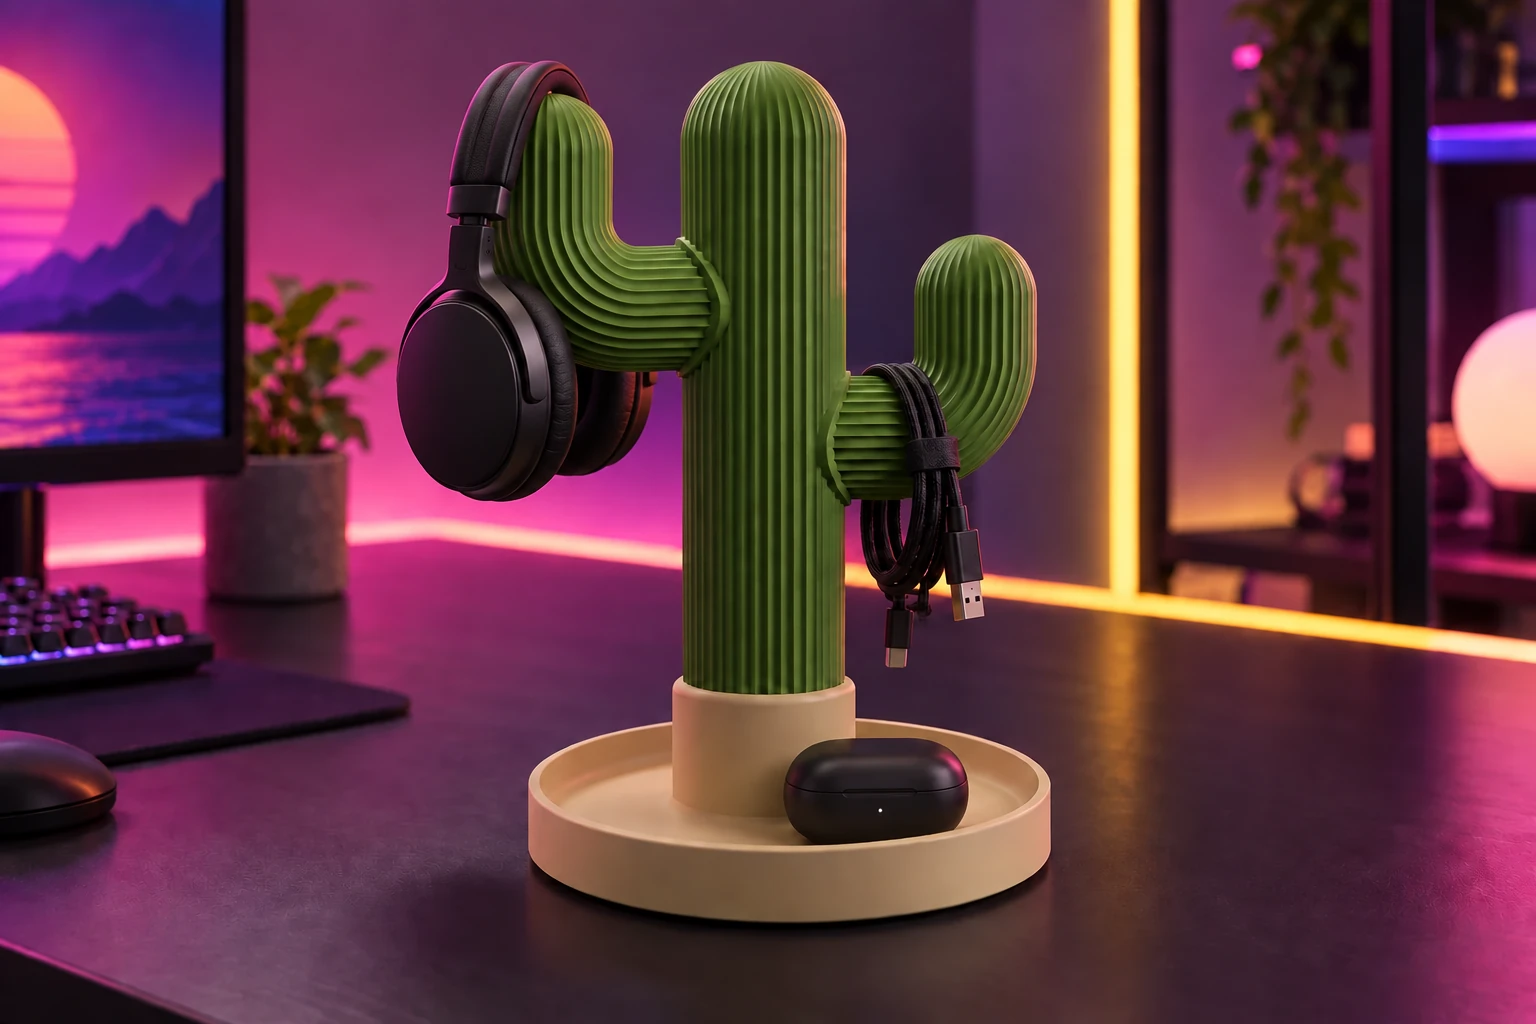
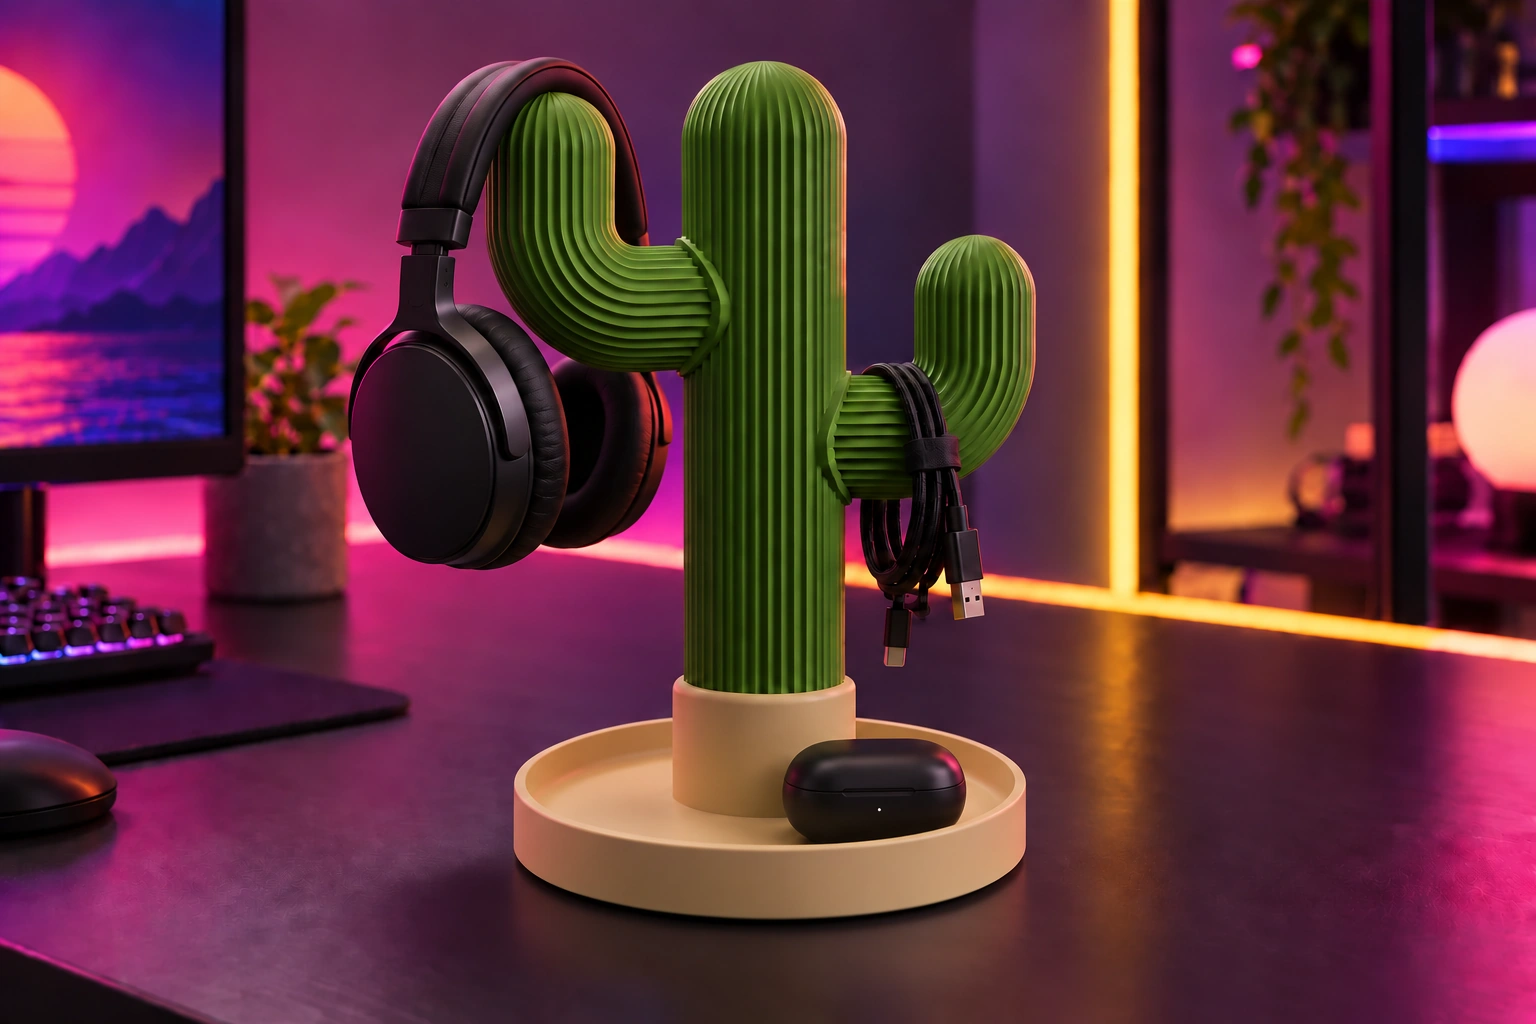
Publish Point3D Print static design and 3D configurator demo

diff --git a/mk/models/cactus-organizer/index.html b/mk/models/cactus-organizer/index.html
@@ -71,9 +71,9 @@
 <section class="usage-gallery section" aria-labelledby="usage-title">
 <div class="section-heading"><div><p class="eyebrow">Еден кактус. Многу намени.</p><h2 id="usage-title">Сè на свое место.</h2></div></div>
 <div class="usage-grid">
-<figure><img src="/point3d-print-demo/static/img/cactus/headphones.webp?v=3" width="1536" height="1024" loading="lazy" alt="Големи слушалки свртени странично, со лентата врз врвот на рачето на кактусот"><figcaption>Слушалки и кабли</figcaption></figure>
+<figure><img src="/point3d-print-demo/static/img/cactus/headphones.webp?v=4" width="1536" height="1024" loading="lazy" alt="Големи слушалки со лентата потпрена врз рачето на кактусот, кабел на другото раче и кутија за слушалки во центрираната база"><figcaption>Слушалки и кабли</figcaption></figure>
 <figure><img src="/point3d-print-demo/static/img/cactus/jewelry.webp" width="1536" height="1024" loading="lazy" alt="Ѓердан и часовник на рацете на кактусот и прстени во базата"><figcaption>Накит и часовник</figcaption></figure>
-<figure><img src="/point3d-print-demo/static/img/cactus/essentials.webp?v=3" width="1536" height="1024" loading="lazy" alt="Бели жичени слушалки за во уво, со кабелот префрлен преку врвот на рачето на кактусот"><figcaption>Слушалки за во уво</figcaption></figure>
+<figure><img src="/point3d-print-demo/static/img/cactus/essentials.webp?v=4" width="1536" height="1024" loading="lazy" alt="Клучеви и паричник во базата на кактусот, со бел USB кабел на рачето"><figcaption>Клучеви и секојдневни додатоци</figcaption></figure>
 </div><p class="muted tiny">Генерирани визуелизации на употреба според 3Д моделот. Додатоците служат како пример.</p>
 </section>
 

diff --git a/en/models/cactus-organizer/index.html b/en/models/cactus-organizer/index.html
@@ -71,9 +71,9 @@
 <section class="usage-gallery section" aria-labelledby="usage-title">
 <div class="section-heading"><div><p class="eyebrow">One cactus. Many uses.</p><h2 id="usage-title">Everything in its place.</h2></div></div>
 <div class="usage-grid">
-<figure><img src="/point3d-print-demo/static/img/cactus/headphones.webp?v=3" width="1536" height="1024" loading="lazy" alt="Over-ear headphones turned sideways, with their headband resting on the cactus arm tip"><figcaption>Headphones and cables</figcaption></figure>
+<figure><img src="/point3d-print-demo/static/img/cactus/headphones.webp?v=4" width="1536" height="1024" loading="lazy" alt="Over-ear headphones supported by the cactus arm, a cable on the other arm and an earbuds case in the centered tray"><figcaption>Headphones and cables</figcaption></figure>
 <figure><img src="/point3d-print-demo/static/img/cactus/jewelry.webp" width="1536" height="1024" loading="lazy" alt="A necklace and watch on the cactus arms, with rings in its tray"><figcaption>Jewelry and a watch</figcaption></figure>
-<figure><img src="/point3d-print-demo/static/img/cactus/essentials.webp?v=3" width="1536" height="1024" loading="lazy" alt="White wired earbuds with their cable draped over the cactus arm tip"><figcaption>Wired earbuds</figcaption></figure>
+<figure><img src="/point3d-print-demo/static/img/cactus/essentials.webp?v=4" width="1536" height="1024" loading="lazy" alt="Keys and a wallet resting in the cactus tray, with a white USB cable on its arm"><figcaption>Keys and everyday essentials</figcaption></figure>
 </div><p class="muted tiny">AI-generated usage visualizations based on the 3D model. Accessories illustrate possible uses.</p>
 </section>
 
